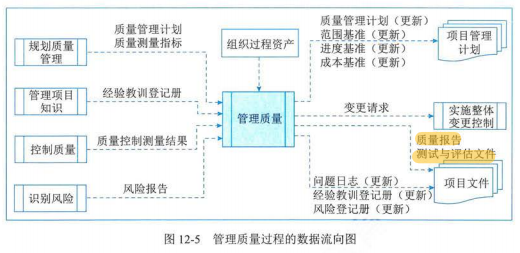
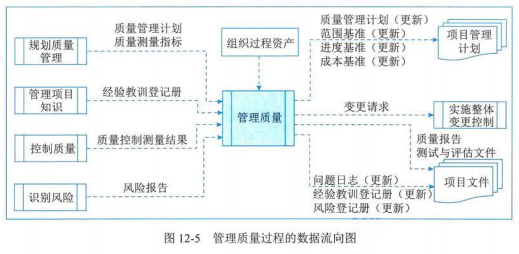
【修改】文档内容修正；

Changed region(s): [[0.0, 0.0, 1.0, 0.8854], [0.0308, 0.083, 0.4008, 0.2767], [0.3083, 0.913, 0.7091, 0.9684]]

diff --git a/docs/12.项目质量管理.md b/docs/12.项目质量管理.md
@@ -29,7 +29,7 @@
 - 质量方针与质量目标
   - 方针：是由组织的最高管理者正式发布的该组织总的质量宗旨和方向
   - 目标：指“在质量方面追求的目的”，是落实质量方针的具体要求，用属于质量方针
-- 按有效性底层的五种质量管理水平
+- 按有效性递增的五种质量管理水平
   1. 代价最大的方法是让客户发现缺陷
   2. 先检查和纠正缺陷，再将可交付成果发送给客户
   3. 通过质量保证检查并纠正过程本身
@@ -40,7 +40,7 @@
 
 - 全面质量管理（TQM）
   - 定义：是一种全员、全过程、全组织的品质管理
-  - 4 哥核心特征
+  - 4 个核心特征
     - 全员参加的
     - 全过程的
     - 全面方法的
@@ -51,7 +51,7 @@
 - 过程概述
   - 规划质量管理：关注工作需要达到的质量
   - 管理质量：关注管理整个项目期间的质量
-  - 控制质量：关注公祖哦成果与质量要求的比较，确保结果可接受
+  - 控制质量：关注工作成果与质量要求的比较，确保结果可接受
 
 | 过程         | 输入                                                                                                                 | 工具与技术                                                                                                             | 输出                                                                                                                   |
 | ------------ | -------------------------------------------------------------------------------------------------------------------- | ---------------------------------------------------------------------------------------------------------------------- | ---------------------------------------------------------------------------------------------------------------------- |
@@ -63,7 +63,7 @@
 
 ## 3 规划质量管理
 
-- 定义：是识别项目及其可可交付成果的质量要求、标准，并书面描述项目将如何证明符合质量要求、标准的过程
+- 定义：是识别项目及其可交付成果的质量要求、标准，并书面描述项目将如何证明符合质量要求、标准的过程
 - 主要作用：为整个项目期间如何管理和核实质量提供指南和方向
 
 ![1693119581967](image/12.项目质量管理/1693119581967.png)
@@ -80,6 +80,7 @@
 
 - 专家判断
 - 数据收集
+
   - 标杆对照
   - 头脑风暴
   - 访谈
@@ -93,32 +94,33 @@
     - 失败成本（内部/外部）
 
       ![1693119793973](image/12.项目质量管理/1693119793973.png)
-
 - 决策技术
 - 数据表现
 
   - 流程图（过程图）：用来显示将一个或多个输入转化成一个或多个输出的过程，所需步骤顺序和可能分支
 
     ![1693120061075](image/12.项目质量管理/1693120061075.png)
-
   - 逻辑数据模型
+
     - 把组织数据可视化，用业务语言加以描述，不依赖特定的技术
     - 可用于识别会出现数据完整性或其他问题的地方
   - 矩阵图
+
     - 在行列交叉的位置展示因素、原因和目标之间的强弱关系
     - 有助于识别对项目成功至关重要的质量测量指标
   - 思维导图
-    - 用于可视化组织信息的绘图法
-    - 有助于快速手机项目质量要求、制约因素、依赖关系和联系
 
+    - 用于可视化组织信息的绘图法
+    - 有助于快速收集项目质量要求、制约因素、依赖关系和联系
 - 测试与检查的规划
+
   - 在规划阶段，项目经理和团队决定如何测试或检查产品、可交付成果或服务，以满足干系人的需求和期望，以及如何满足产品的绩效和可靠性目标
 - 会议
 
 ### 输出
 
 - 质量管理计划
-  - 定义：是项目挂历加护的组成部分，描述如何实施适用的政策、程序和指南以实现质量目标
+  - 定义：是项目管理计划的组成部分，描述如何实施适用的政策、程序和指南以实现质量目标
   - 特征：可以是正式或非正式的，非常详细或高度概括的
   - 美容
     - 项目采用的质量标准
@@ -136,15 +138,15 @@
 
 ## 4 管理质量
 
-- 定义：是吧组织的质量政策用于项目，并将质量管理计划转化为可执行的质量活动的过程
+- 定义：是把组织的质量政策用于项目，并将质量管理计划转化为可执行的质量活动的过程
 - 主要作用
   - 提高实现质量目标的可能性
   - 识别无效过程和导致质量低劣的原因
   - 使用控制质量过程的数据和结果项干系人展示项目的总体质量状态
 - 开展频率：整个项目期间开展
 - 与质量保证的区别
-  - 有事被称为“质量保证”，但“管理质量”的定义比“质量保证”更广，因其可用于非项目工作
-  - 质量保证：着眼于项目使用的郭恒，旨在高效的执行项目过程，包括遵守和满足标准，向干系人保证最终产品可以满足他们的需求、期望和要求
+  - 有时被称为“质量保证”，但“管理质量”的定义比“质量保证”更广，因其可用于非项目工作
+  - 质量保证：着眼于项目使用的过程，旨在高效的执行项目过程，包括遵守和满足标准，向干系人保证最终产品可以满足他们的需求、期望和要求
   - 管理质量：包括所有质量保证活动，还与产品设计和过程改进有关
 - 做好管理质量的好处
   - 通过执行有关产品特定方面的设计准则，设计出最优的成熟产品
@@ -173,8 +175,8 @@
   - 核对单
 
     ![1693121301169](image/12.项目质量管理/1693121301169.png)
-
 - 数据分析
+
   - 备选方案分析
   - 文件分析
   - 过程分析
@@ -185,27 +187,26 @@
   - 亲和图：对潜在缺陷成因进行分类，展示最应关注的领域
 
     ![1693121432647](image/12.项目质量管理/1693121432647.png)
-
   - 因果图（鱼骨图、why-why 分析图、石川图）：将问题成熟的原因分解为离散的分支，有助于识别问题的主要原因或根本原因
 
     ![1693121514610](image/12.项目质量管理/1693121514610.png)
-
   - 流程图：引发缺陷的一系列步骤
   - 直方图
   - 矩阵图
   - 散点图：两个变量之间关系
-
 - 审计
+
   - 定义：是用于确定项目活动是否遵循了组织和项目的政策、过程与程序的一种结构化且独立的过程
   - 执行组织：通常由项目外部的团队开展，如：组织内部审计部门、项目管理办公室（PMO）或组织外部的审计师
   - 目标
     - 识别全部正在实施的良好及最佳实践
     - 识别所有违规做法、差距及不足
-    - 分享所有组织和/行业中类似项目的良好时间
+    - 分享所有组织和/行业中类似项目的良好实践
     - 积极、主动的提供协助，以改进过程的执行，从而帮助团队提高生产效率
     - 强调每次审计都应对组织经验教训和知识库的积累做出贡献等
   - 可以事先安排，也可随机进行；可由内部或外部审计师进行
 - 面相 X 的设计（DfX）
+
   - 定义：是产品设计期间可采用的一系列技术指南，旨在优化设计的也定方面，可以控制或提高产品最终特性
   - 针对方面：DfX 中的 X 可以是产品开发的不同方面，如：可靠性、调配、装配、制造、成本、服务、可用性、安全性和质量
   - 可以降低成本，改进质量、提高绩效和客户满意度
@@ -246,20 +247,21 @@
 - 数据收集
 
   - 核对单
-  - 核查表（计数表）：用于合理排列各种事项，一遍有效的收集关于潜在质量问题的有用数据
+  - 核查表（计数表）：用于合理排列各种事项，以便有效的收集关于潜在质量问题的有用数据
 
     ![1693122514680](image/12.项目质量管理/1693122514680.png)
-
   - 统计抽样
   - 问卷调查
-    - 用于在部署产品或服务之后手机关于客户满意度的数据
-    - 在问卷调查中识别的缺陷相关成本可被视为 COQ 模型中的外部失败成本，给组织带来的影响会超出成本本身
 
+    - 用于在部署产品或服务之后收集关于客户满意度的数据
+    - 在问卷调查中识别的缺陷相关成本可被视为 COQ 模型中的外部失败成本，给组织带来的影响会超出成本本身
 - 数据分析
+
   - 绩效审查
   - 根本原因分析（RAC）
 - 检查
 - 测试/产品评估
+
   - 定义：是一种有组织的，结构化的调查，旨在根据项目需求提供有关被测产品或服务质量的客观信息
   - 目的：找出产品或服务中存在的错误、缺陷、漏洞或其他不合规的问题
   - 类型
@@ -271,6 +273,7 @@
     - 回归测试
     - α 测试等
 - 数据表现
+
   - 因果图：用于识别质量缺陷和错误可能造成的结果
   - 控制图
 
@@ -278,7 +281,6 @@
     - 规格上限和下限是根据要求制定的，反映了可允许的最大值和最小值
 
       ![1693122933567](image/12.项目质量管理/1693122933567.png)
-
   - 直方图：按来源或组成部分展示缺陷数量
   - 散点图
 - 会议
